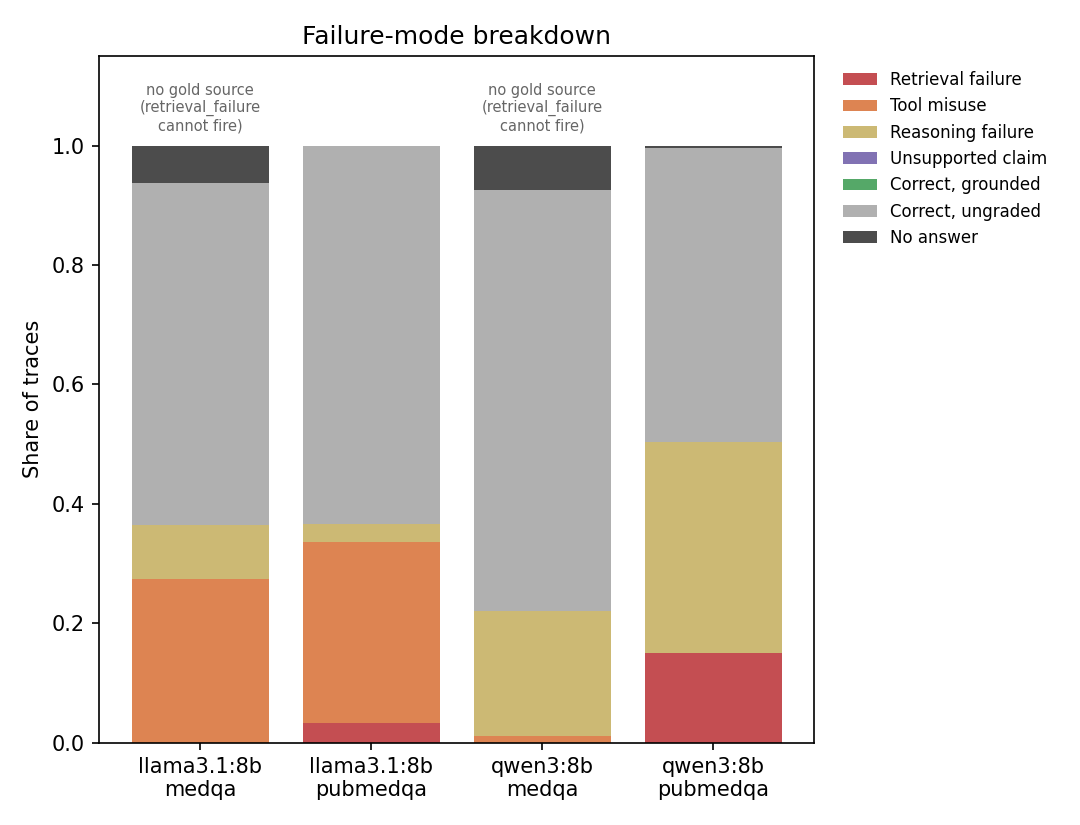
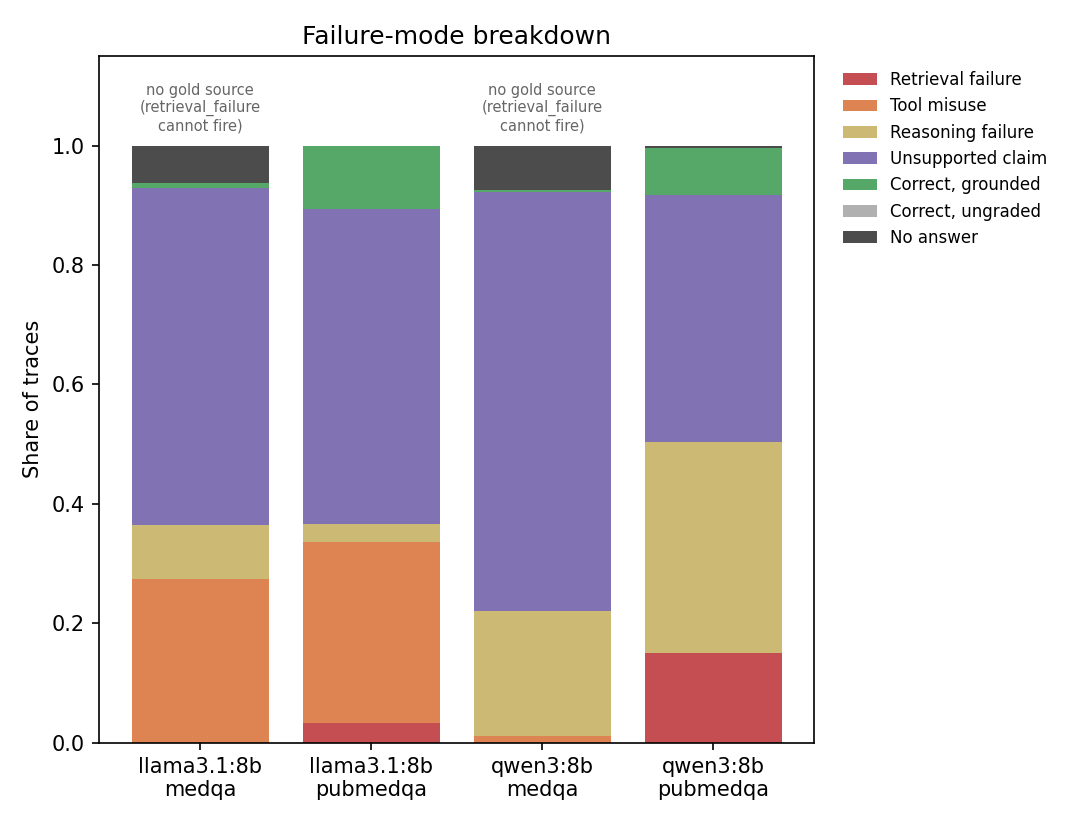
fix(eval): citation framing and evidence commentary inflated the hallucination rate
The agent is instructed to cite its sources, and the grader was punishing it for doing so. Measured over the committed traces: claims mentioning an evidence ID were graded entailed 14% of the time against 36% for claims without one, and contradicted 12% against 3%.

Two causes, both in claim extraction rather than in the NLI model. Asking whether an abstract entails 'E1 states that X' is structurally unanswerable whatever the abstract contains, because the hypothesis is a statement about E1 rather than about the world; strip_citation_framing now reduces such a claim to the proposition X before it becomes a hypothesis. And sentences like 'E2 is unrelated to resuscitation devices' are the agent correctly noticing bad retrieval, which is the opposite of the behaviour unsupported_claim exists to catch; those are now filtered at extraction alongside hedges and questions.

ClaimRecord keeps both forms: text as the agent wrote it, and tested_text as put to the checker, so a reader can see what was actually judged.

Stripping is conservative. It reverts to the original whenever the residue would be too short or would end on a dangling function word, so 'As shown in E1.' is left intact rather than reduced to a fragment. 18 tests cover the framing forms, negation survival, and the meta-evidence filter.

This changes no trace: the defect was downstream of the rollouts, so correcting it costs one eval pass and no inference.

Changed region(s): [[0.1222, 0.1515, 0.7333, 0.7576]]

diff --git a/src/cra/eval/claims.py b/src/cra/eval/claims.py
@@ -1,9 +1,27 @@
 """Claim extraction: v1, rule-based.
 
 Splits a justification into sentences and filters out non-assertions --
-questions, hedge-only fragments -- so what's left is roughly "one checkable
-factual claim per sentence", the contract ``agent/prompts.py``'s
-``FINAL_ANSWER_CONTRACT`` asks the model to follow.
+questions, hedge-only fragments, and statements *about* the evidence rather
+than about the world -- so what's left is roughly "one checkable factual claim
+per sentence", the contract ``agent/prompts.py``'s ``FINAL_ANSWER_CONTRACT``
+asks the model to follow.
+
+Two normalisations exist because the agent is *instructed* to cite its
+sources, and a naive entailment check punishes it for complying. Measured over
+the committed traces before these were added: claims mentioning an evidence ID
+were scored ``entailed`` only 14% of the time against 36% for claims without
+one, and ``contradicted`` 12% against 3%. Citing a source is not evidence of
+hallucination, so that gap was measurement error, not signal.
+
+* :func:`strip_citation_framing` removes the citation wrapper before the claim
+  becomes an entailment hypothesis. "E1 states that X" asks an NLI model
+  whether an abstract entails a statement about what E1 says; the answer is
+  structurally no, whatever the abstract contains. The proposition under test
+  is X.
+* Meta-evidence statements ("E2 is unrelated to resuscitation devices") are
+  dropped at extraction. They carry no claim about the world, and they are
+  usually the agent correctly noticing bad retrieval -- the opposite of the
+  behaviour ``unsupported_claim`` is meant to catch.
 
 **v2 (LLM-based extraction) is not built.** docs/DESIGN.md Sec 7 asks for
 agreement between v1 and v2 to be reported before v1 alone is trusted; that
@@ -29,6 +47,93 @@ _HEDGE_ONLY_RE = re.compile(
 )
 _MIN_CLAIM_CHARS = 8
 
+# One or more evidence IDs: "E1", "E1 and E2", "E1, T2 and E3".
+_IDS = r"[ET]\d+(?:\s*(?:,|and)\s*[ET]\d+)*"
+
+_REPORTING_VERB = (
+    r"states?|shows?|reports?|indicates?|demonstrates?|suggests?|finds?|found|notes?|"
+    r"describes?|confirms?|establishes?|addresses|supports?|documents?|observes?"
+)
+
+# Leading frames: "According to E1, X" / "E1 states that X" / "Per E1 and E2: X".
+_LEAD_FRAMES = [
+    re.compile(
+        r"^(?:according to|per|based on|as (?:stated|shown|reported|noted|described|"
+        r"demonstrated|documented) in|from)\s+" + _IDS + r"\s*[,:]?\s*",
+        re.IGNORECASE,
+    ),
+    re.compile(
+        r"^(?:the (?:evidence|passage|abstract|study|source) in\s+)?" + _IDS
+        + r"\s+(?:" + _REPORTING_VERB + r")\s+(?:that\s+)?",
+        re.IGNORECASE,
+    ),
+]
+
+# Trailing frames: "..., as shown in E1." / "... (E1, E2)." / "... per E3."
+_TRAIL_FRAMES = [
+    re.compile(
+        r"\s*[,;(]?\s*(?:as\s+)?(?:" + _REPORTING_VERB + r"|stated|shown|reported|noted|"
+        r"described|demonstrated|documented|supported|per|according to|see)\s*"
+        r"(?:in|by)?\s*" + _IDS + r"\s*\)?\s*([.!?])?\s*$",
+        re.IGNORECASE,
+    ),
+    re.compile(r"\s*\(\s*" + _IDS + r"\s*\)\s*([.!?])?\s*$", re.IGNORECASE),
+]
+
+# Statements about the evidence itself rather than about the world.
+_META_EVIDENCE_RE = re.compile(
+    r"^(?:"
+    r"(?:the\s+)?(?:other\s+|remaining\s+)?(?:passages?|evidence|abstracts?|sources?|studies)"
+    r"|" + _IDS +
+    r")\b[^.]*?\b(?:"
+    r"(?:is|are|was|were)\s+(?:not\s+)?(?:un)?related|"
+    r"(?:is|are)\s+irrelevant|(?:is|are)\s+not\s+relevant|(?:is|are)\s+off-?topic|"
+    r"do(?:es)?\s+not\s+(?:address|discuss|mention|relate|cover|speak)|"
+    r"(?:is|are)\s+about\s+|(?:focus(?:es)?|focused)\s+on\s+|(?:is|are)\s+concerned\s+with"
+    r")",
+    re.IGNORECASE,
+)
+
+
+# A residue ending in a function word means stripping cut into the sentence
+# rather than off it ("As shown in E1." -> "As shown in ."), so the original
+# stands.
+_DANGLING_TAIL_RE = re.compile(
+    r"\b(?:in|of|by|to|from|per|and|with|as|for|on|at|that|the|a|an"
+    r"|shown|stated|reported|noted|described|demonstrated)\s*[.!?]?$",
+    re.IGNORECASE,
+)
+
+
+def is_meta_evidence_statement(sentence: str) -> bool:
+    """True for commentary on the evidence rather than a claim about the world."""
+    return bool(_META_EVIDENCE_RE.match(sentence.strip()))
+
+
+def strip_citation_framing(claim: str) -> str:
+    """Reduce a cited claim to the proposition it asserts.
+
+    ``"E1 states that aspirin is less effective."`` -> ``"aspirin is less effective."``
+    Returns the claim unchanged if stripping would leave nothing checkable.
+    """
+    text = claim.strip()
+    for pattern in _LEAD_FRAMES:
+        stripped = pattern.sub("", text, count=1)
+        if stripped != text and len(stripped.strip()) >= _MIN_CLAIM_CHARS:
+            text = stripped.strip()
+            break
+    for pattern in _TRAIL_FRAMES:
+        stripped = pattern.sub(lambda m: m.group(1) or "", text, count=1)
+        if stripped != text and len(stripped.strip()) >= _MIN_CLAIM_CHARS:
+            text = stripped.strip()
+            break
+    # Any surviving bare IDs are references, not content.
+    text = re.sub(r"\s*\b" + _IDS + r"\b\s*", " ", text).strip()
+    text = re.sub(r"\s{2,}", " ", text).strip(" ,;:")
+    if len(text) < _MIN_CLAIM_CHARS or _DANGLING_TAIL_RE.search(text):
+        return claim.strip()
+    return text[0].upper() + text[1:] if text else claim.strip()
+
 
 def extract_claims(justification: str) -> list[str]:
     """One claim per sentence, non-assertions filtered out. Empty input -> []."""
@@ -44,6 +149,8 @@ def extract_claims(justification: str) -> list[str]:
         if _QUESTION_RE.search(sentence):
             continue
         if _HEDGE_ONLY_RE.match(sentence):
+            continue
+        if is_meta_evidence_statement(sentence):
             continue
         claims.append(sentence)
     return claims

diff --git a/tests/test_eval_claims.py b/tests/test_eval_claims.py
@@ -1,6 +1,12 @@
 from __future__ import annotations
 
-from cra.eval.claims import extract_claims
+import pytest
+
+from cra.eval.claims import (
+    extract_claims,
+    is_meta_evidence_statement,
+    strip_citation_framing,
+)
 
 
 def test_splits_into_sentences():
@@ -30,3 +36,82 @@ def test_empty_justification():
 
 def test_short_fragment_dropped():
     assert extract_claims("Yes.") == []
+
+
+class TestCitationFraming:
+    """Citing a source must not read as hallucination.
+
+    Measured before this existed: claims mentioning an evidence ID were graded
+    ``entailed`` 14% of the time against 36% for claims without one. The agent
+    is instructed to cite, so that gap was measurement error.
+    """
+
+    @pytest.mark.parametrize(
+        "written,proposition",
+        [
+            ("E1 states that aspirin is less effective.", "Aspirin is less effective."),
+            ("According to E1, warfarin raises bleeding risk.", "Warfarin raises bleeding risk."),
+            ("Per E1 and E2, the score is high.", "The score is high."),
+            ("Margins are clearly separated, as shown in E1.", "Margins are clearly separated."),
+            ("Aspirin is substantially less effective (E2).", "Aspirin is substantially less effective."),
+            ("T1 shows that her score is 5.", "Her score is 5."),
+        ],
+    )
+    def test_framing_is_stripped_to_the_proposition(self, written, proposition):
+        assert strip_citation_framing(written) == proposition
+
+    def test_uncited_claims_are_untouched(self):
+        claim = "Randomised trials have established this as the standard of care."
+        assert strip_citation_framing(claim) == claim
+
+    def test_stripping_never_empties_a_claim(self):
+        """A sentence that is nothing but a citation keeps its original text."""
+        assert strip_citation_framing("E1.") == "E1."
+        assert strip_citation_framing("As shown in E1.") == "As shown in E1."
+
+    def test_negation_survives_stripping(self):
+        """The wrapper goes; the proposition's meaning must not change."""
+        out = strip_citation_framing("E1 states that aspirin is not effective.")
+        assert "not effective" in out
+
+
+class TestMetaEvidenceStatements:
+    """Commentary about the evidence is not a claim about the world.
+
+    An agent noting that a retrieved passage is off-topic is doing the right
+    thing -- the opposite of what ``unsupported_claim`` exists to catch.
+    """
+
+    @pytest.mark.parametrize(
+        "sentence",
+        [
+            "E2 is unrelated to resuscitation devices.",
+            "E2 is irrelevant as it focuses on Dutch patients rather than U.S. cohorts.",
+            "The other passages do not address this question.",
+            "E3 is about laparoscopic adrenalectomy.",
+            "The remaining evidence does not discuss this drug.",
+        ],
+    )
+    def test_detected(self, sentence):
+        assert is_meta_evidence_statement(sentence)
+
+    @pytest.mark.parametrize(
+        "sentence",
+        [
+            "Aspirin is less effective than warfarin.",
+            "Chemical shift MRI can demonstrate lesion margins.",
+            "The patient is at high risk of stroke.",
+        ],
+    )
+    def test_clinical_claims_are_not_meta(self, sentence):
+        assert not is_meta_evidence_statement(sentence)
+
+    def test_excluded_from_extraction(self):
+        justification = (
+            "Aspirin is less effective than warfarin. "
+            "E2 is unrelated to anticoagulation. "
+            "The patient should receive oral anticoagulation."
+        )
+        claims = extract_claims(justification)
+        assert len(claims) == 2
+        assert not any("unrelated" in c for c in claims)

diff --git a/src/cra/eval/failure_modes.py b/src/cra/eval/failure_modes.py
@@ -34,7 +34,7 @@ rate, exactly as docs/DESIGN.md Sec 6 requires.
 from __future__ import annotations
 
 from cra.data.expected_tools import ALWAYS_PERMITTED, resolve_expected_tools
-from cra.eval.claims import extract_claims
+from cra.eval.claims import extract_claims, strip_citation_framing
 from cra.eval.entailment.base import EntailmentChecker
 from cra.eval.records import ClaimRecord, FailureMode, ToolUseAssessment, TraceEvalRecord
 from cra.types import Trace
@@ -90,10 +90,21 @@ def _grade_claims(
     if entailment is None:
         return [ClaimRecord(text=t) for t in texts], None
 
-    claims = [
-        ClaimRecord(text=t, label=entailment.check(t, evidence_texts), checker=entailment.name)
-        for t in texts
-    ]
+    # The citation wrapper is stripped before the claim becomes a hypothesis:
+    # asking whether an abstract entails "E1 states that X" is structurally
+    # unanswerable, and penalised the agent for citing as instructed. See
+    # cra.eval.claims for the measurement that motivated this.
+    claims = []
+    for t in texts:
+        hypothesis = strip_citation_framing(t)
+        claims.append(
+            ClaimRecord(
+                text=t,
+                tested_text=hypothesis if hypothesis != t else None,
+                label=entailment.check(hypothesis, evidence_texts),
+                checker=entailment.name,
+            )
+        )
     hallucinated = any(c.label in ("contradicted", "not_addressed") for c in claims)
     return claims, hallucinated
 

diff --git a/src/cra/eval/records.py b/src/cra/eval/records.py
@@ -44,9 +44,18 @@ TOOL_MISUSE_REASONS = (
 
 
 class ClaimRecord(BaseModel):
-    text: str
+    text: str  # the sentence as the agent wrote it
+    # The proposition actually put to the entailment checker: the same sentence
+    # with its citation wrapper removed ("E1 states that X" -> "X"). Kept
+    # separately so a reader can see what was tested, and so reports can show
+    # the agent's own words. None when it is identical to ``text``.
+    tested_text: str | None = None
     label: EntailmentLabel | None = None  # None = not graded (no checker run)
     checker: str | None = None  # e.g. "nli", "judge:qwen3:8b"
+
+    @property
+    def hypothesis(self) -> str:
+        return self.tested_text or self.text
 
 
 class ToolUseAssessment(BaseModel):

diff --git a/results/tables/failure_modes.md b/results/tables/failure_modes.md
@@ -1,6 +1,6 @@
 | Experiment | Model | Dataset | N | no_answer | retrieval_failure | tool_misuse | reasoning_failure | unsupported_claim | correct_grounded | correct_ungraded |
 |---|---|---|---|---|---|---|---|---|---|---|
-| headline_llama31 | llama3.1:8b | medqa | 255 | 16 (6%) | 0 (0%) | 70 (27%) | 23 (9%) | 0 (0%) | 0 (0%) | 146 (57%) |
-| headline_llama31 | llama3.1:8b | pubmedqa | 300 | 0 (0%) | 10 (3%) | 91 (30%) | 9 (3%) | 0 (0%) | 0 (0%) | 190 (63%) |
-| headline_qwen3 | qwen3:8b | medqa | 255 | 19 (7%) | 0 (0%) | 3 (1%) | 53 (21%) | 0 (0%) | 0 (0%) | 180 (71%) |
-| headline_qwen3 | qwen3:8b | pubmedqa | 300 | 1 (0%) | 45 (15%) | 0 (0%) | 106 (35%) | 0 (0%) | 0 (0%) | 148 (49%) |
+| headline_llama31 | llama3.1:8b | medqa | 255 | 16 (6%) | 0 (0%) | 70 (27%) | 23 (9%) | 144 (56%) | 2 (1%) | 0 (0%) |
+| headline_llama31 | llama3.1:8b | pubmedqa | 300 | 0 (0%) | 10 (3%) | 91 (30%) | 9 (3%) | 158 (53%) | 32 (11%) | 0 (0%) |
+| headline_qwen3 | qwen3:8b | medqa | 255 | 19 (7%) | 0 (0%) | 3 (1%) | 53 (21%) | 179 (70%) | 1 (0%) | 0 (0%) |
+| headline_qwen3 | qwen3:8b | pubmedqa | 300 | 1 (0%) | 45 (15%) | 0 (0%) | 106 (35%) | 124 (41%) | 24 (8%) | 0 (0%) |
